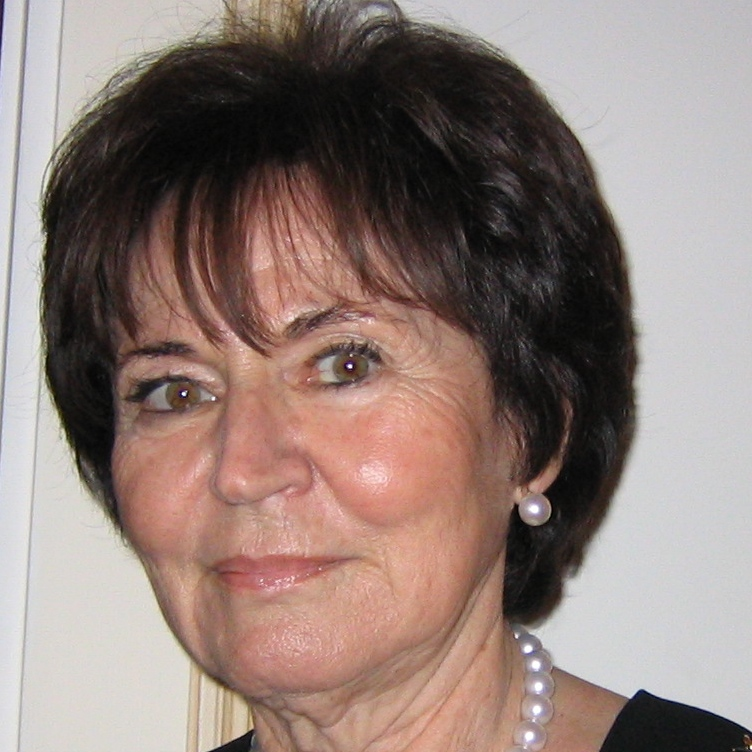
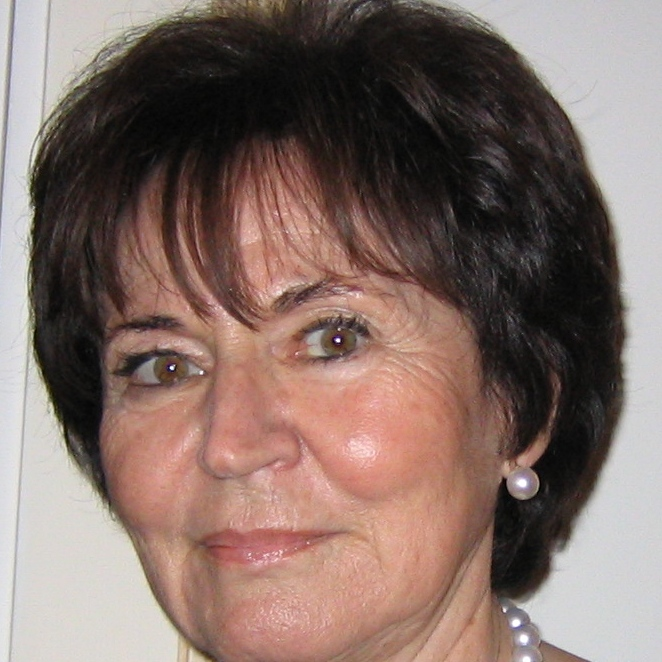
trucs
boutons de fin.
photos de kk et mamie C

diff --git a/index.html b/index.html
@@ -35,7 +35,7 @@
     <div class="above-game">
       <p class="game-intro">
       <a class="restart-button">Nouvelle tie-par</a>
-      Pow pow pow.</p>
+      Pow pow pow pow pow pow pow pow pow   </p>
       
     </div>
 
@@ -44,8 +44,8 @@
       <div class="game-message">
         <p></p>
         <div class="lower">
-	        <a href="http://www.udacity.com/course/ud248"class="learn learn-low">Take the Class!</a>
-          <a class="retry-button">Play Again</a>
+	        <a href="http://estcequecestbientotleweekend.fr"class="learn learn-low">Week-End?</a>
+          <a class="retry-button">Jouer encore (sauf si je m'appelle Agnès Weil)</a>
           <div class="score-sharing"></div>
         </div>
       </div>
@@ -84,7 +84,7 @@
 
 
     <p class="game-explanation">
-      <strong class="important">R'marque:</strong> on s'en ******, on s'ra pas chargés ! Limite de jeu pour Agnès Weil : <strong> 2 fois par jour max.</strong>
+      <strong class="important">R'marque:</strong> on s'en ******, on s'ra pas chargés ! Enjoy ! <strong> Plein d'amour. </strong>
     </p>
     <hr>
     <p class="game-explanation">

diff --git a/style/main.css b/style/main.css
@@ -405,7 +405,7 @@ hr {
     font-size: 16px; 
     color: #354b59;}
   .tile.tile-2 .tile-inner {
-    background: url('../tile-sets/family_pics/_2.jpg');
+    background: url('../tile-sets/family_pics/_2kk.JPG');
     background-size: 100%;
     color: rgba(0,0,0,0);
     box-shadow: 0 0 30px 10px rgba(243, 215, 116, 0), inset 0 0 0 1px rgba(255, 255, 255, 0); }
